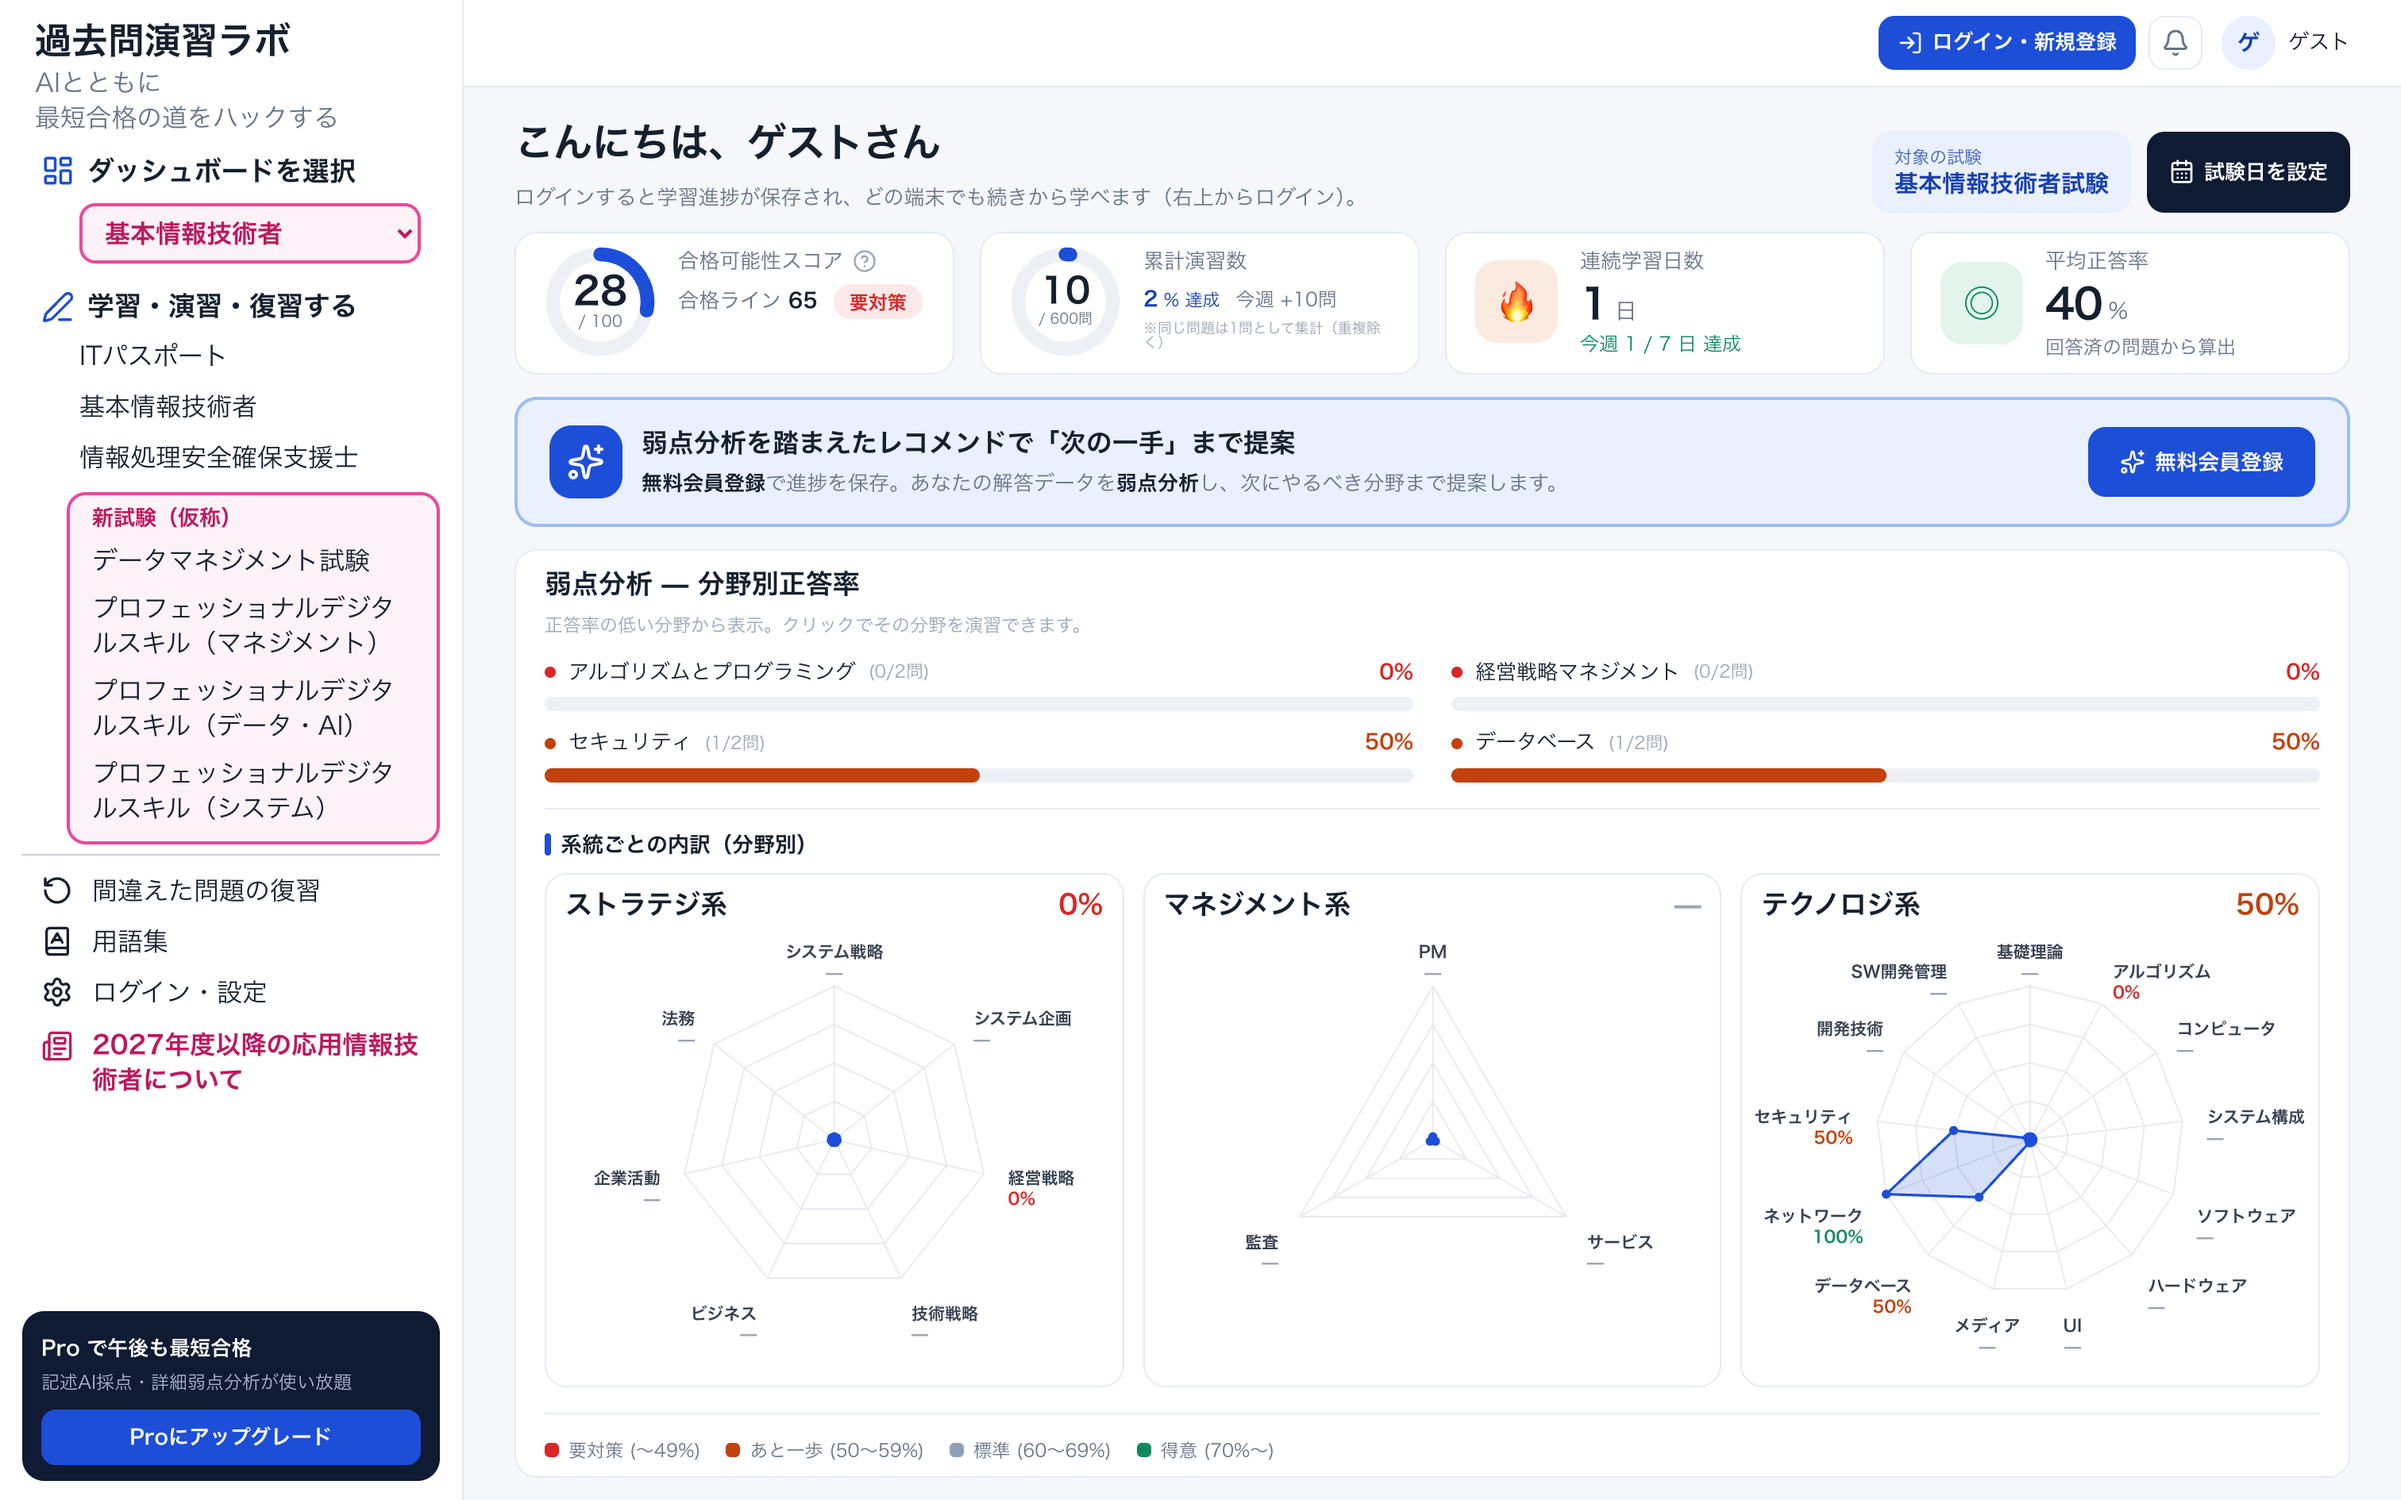
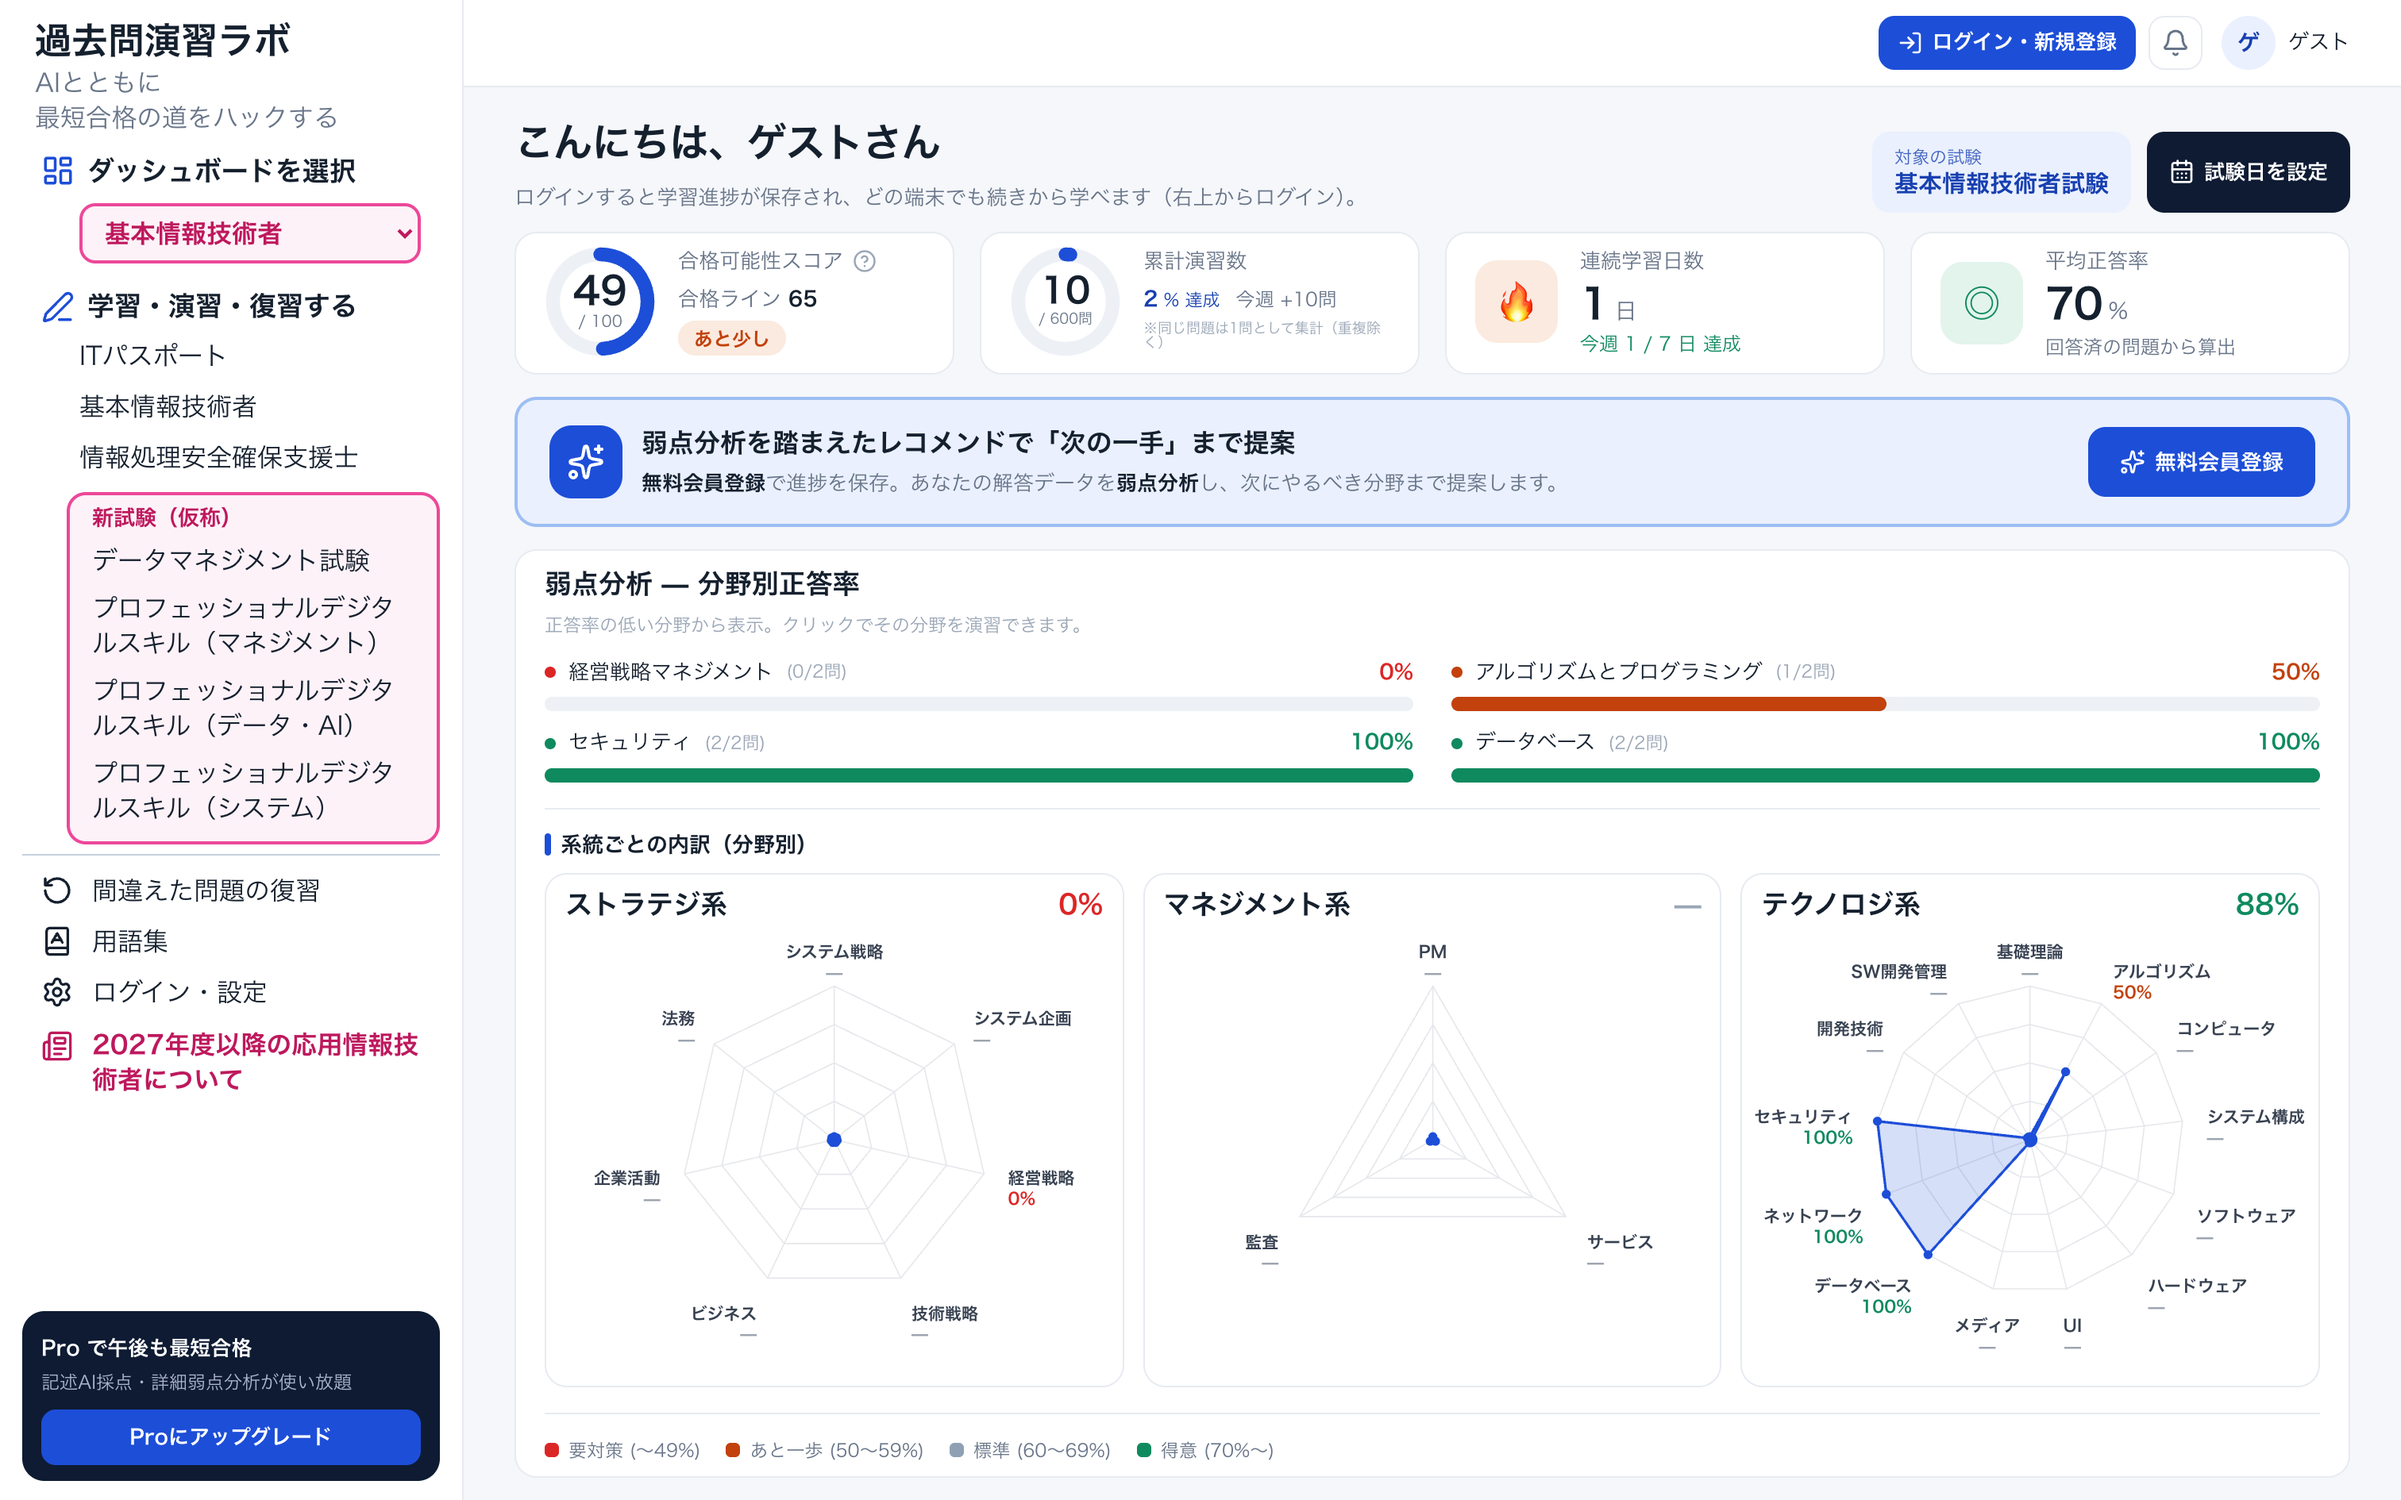
X: 診断を安定70点(合格圏)で再撮影＋PR用スクショ(用語集/学習コンテンツ/図つき問題)を追加
- capture-screens.mjs: 正解マッチングを問題文の全文照合に強化→確実に7/10正解=70点。用語集/学習/図つき問題も撮影
- 実スクショ7枚(shot-*.png)＋devices.png を70点データで更新（弱点分析が緑バランス良く映える）
- x-pr-posts.md: 撮影済み画像一覧を更新（午後AI採点のみ手動撮影に）

diff --git a/marketing/x-pr-posts.md b/marketing/x-pr-posts.md
@@ -110,10 +110,15 @@
 
 ---
 
-## 撮影が必要な画像（余裕があるとき順次）
-- 午後AI採点の結果（/exam/ap/pm で1問採点）
-- 用語集（/learn/glossary）
-- 学習パス（/learn/[examId]/[category] のジグザグ）
-- 図つき問題（高度区分の図あり問題）
+## 撮影済み画像（marketing/x/・そのまま添付可）
+本物のサイトの実スクショ（`node scripts/capture-screens.mjs` で自動生成）:
+- `shot-diagnosis.png` … AI合格診断の結果（🧠 #1）
+- `shot-mobile.png` … 今日の5問ホーム（📱 #2）
+- `shot-desktop.png` … 弱点分析ダッシュボード（💻 #3）
+- `shot-glossary.png` … 用語集2,348語（#5）
+- `shot-path.png` … 学習コンテンツ（用語カード・#6）
+- `shot-figure.png` … 図つき問題（論理回路・#10）
+- `devices.png` … PC＋スマホのデバイス合成（#2/#3や固定ポストのヒーローに）
 
-既に撮影済み（固定ポスト用）: AI診断結果／今日の5問ホーム／弱点分析ダッシュボード → PRにも流用可。
+まだ手動撮影が必要:
+- 午後AI採点の結果（#4）… Proログイン＋AI採点の実行が要るため自動化保留。会員でログインして /exam/ap/pm で1問採点した画面をスクショ。
